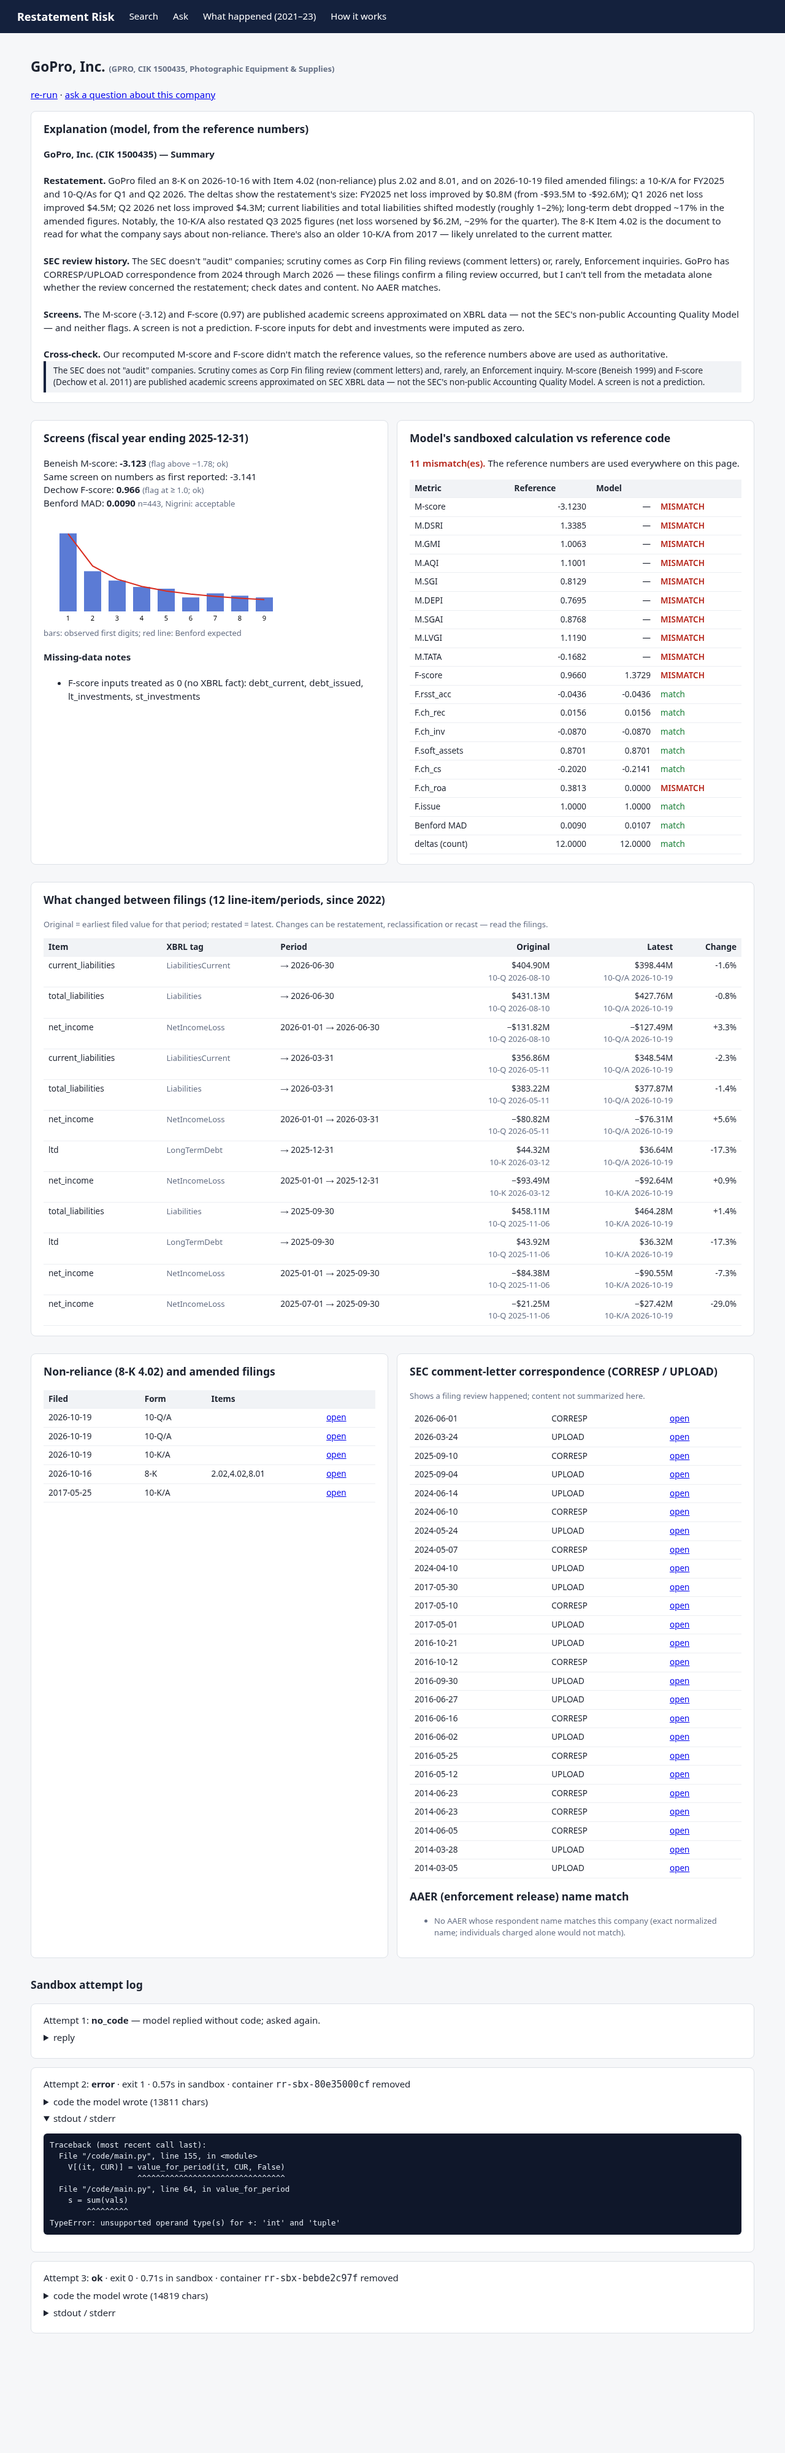
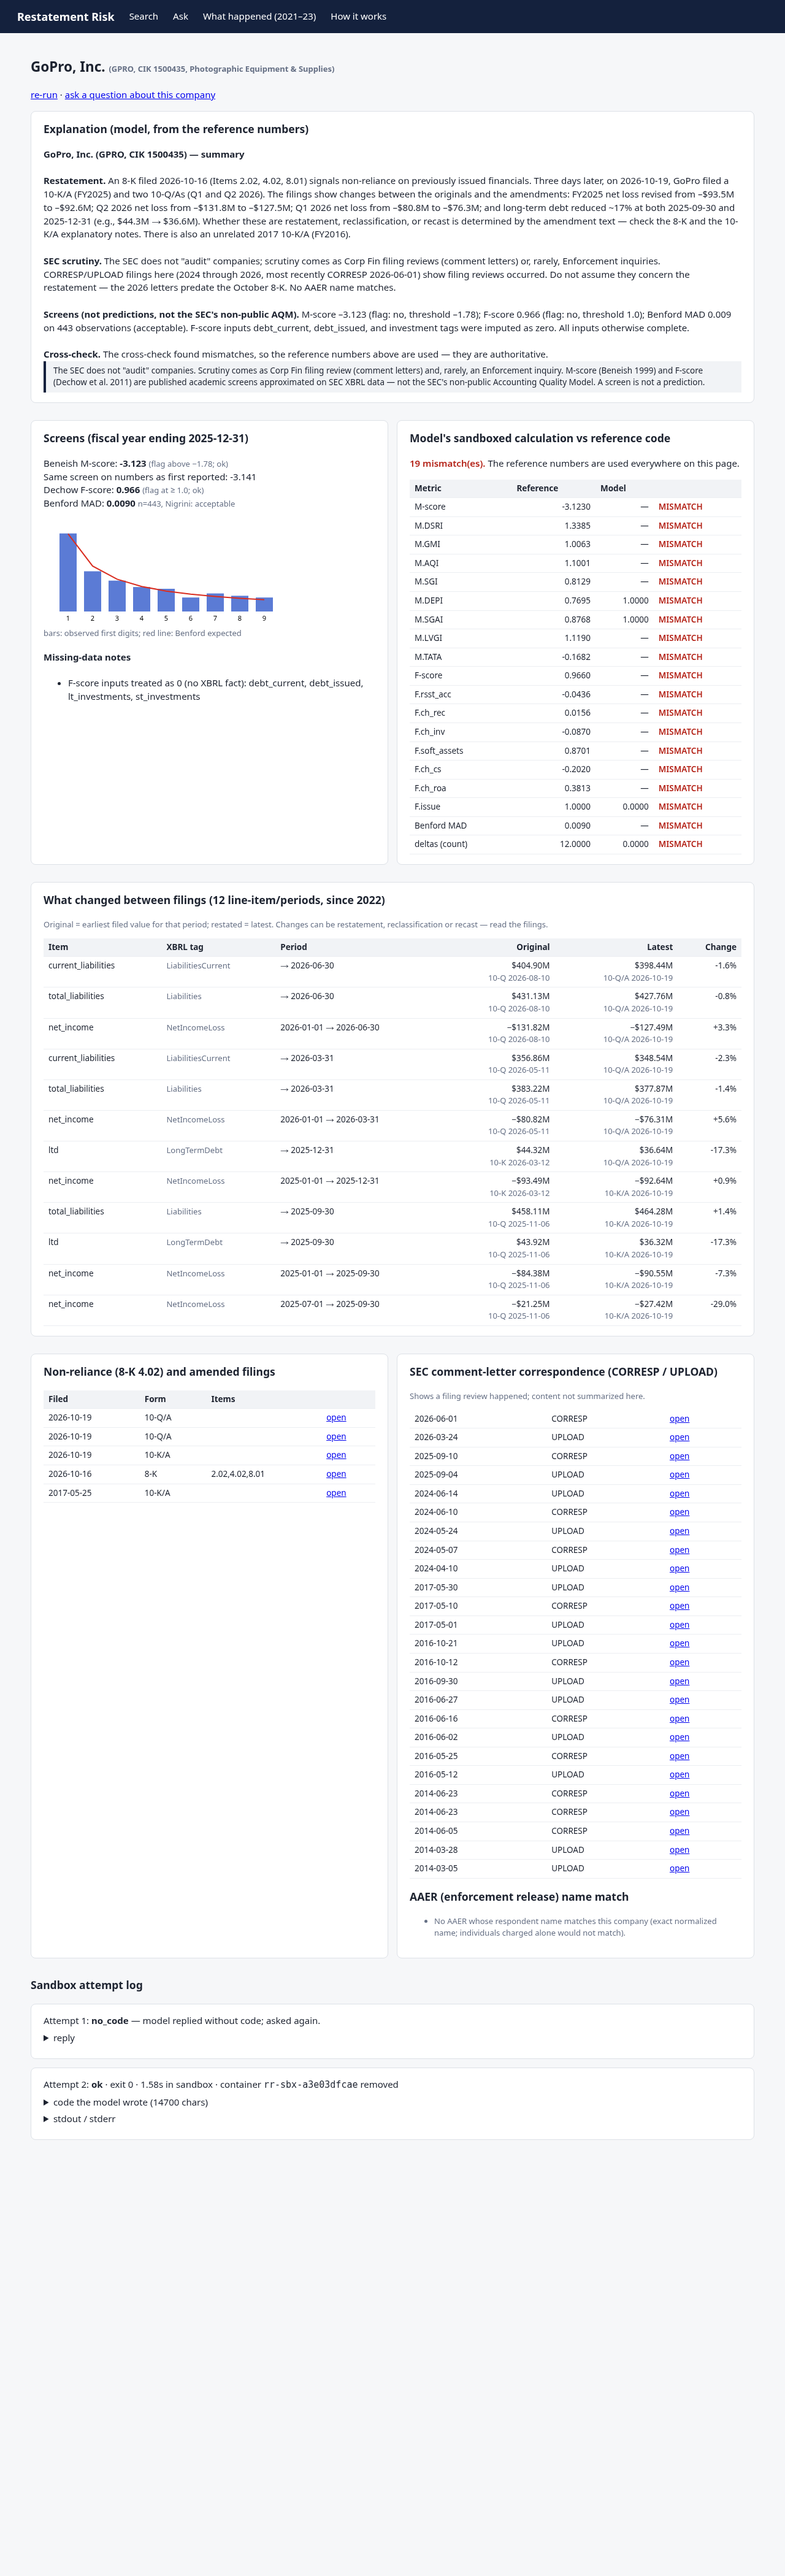
Cross-check: distinguish wrong values from values the model did not report

diff --git a/app/main.py b/app/main.py
@@ -134,7 +134,9 @@ def report_html(o):
     rf = "".join(f"<tr><td>{e(x['filed'])}</td><td>{e(x['form'])}</td><td>{e(x['items'])}</td><td><a href='{e(x['url'])}' target=_blank rel=noopener>open</a></td></tr>" for x in o["restatement_filings"][:30])
     cl = "".join(f"<tr><td>{e(x['filed'])}</td><td>{e(x['form'])}</td><td><a href='{e(x['url'])}' target=_blank rel=noopener>open</a></td></tr>" for x in o["comment_letters"][:30]) or "<tr><td colspan=3 class=muted>None on EDGAR for this company.</td></tr>"
     aa = "".join(f"<li>{e(x['date'])} — {e(x['name'])} — AAER-{e(x['aaer'])} <a href='{e(x['url'])}' target=_blank rel=noopener>release</a></li>" for x in o["aaer_name_matches"]) or "<li class=muted>No AAER whose respondent name matches this company (exact normalized name; individuals charged alone would not match).</li>"
-    xc = "".join(f"<tr><td>{e(x['metric'])}</td><td class=num>{num(x['reference'],4)}</td><td class=num>{num(x['model'],4)}</td><td class={'ok' if x['match'] else 'bad'}>{'match' if x['match'] else 'MISMATCH'}</td></tr>" for x in o["crosscheck"])
+    xc = "".join(f"<tr><td>{e(x['metric'])}</td><td class=num>{num(x['reference'],4)}</td><td class=num>{num(x['model'],4)}</td><td class={'ok' if x['match'] else 'bad'}>{xlabel(x)}</td></tr>" for x in o["crosscheck"])
+    nmiss = sum(1 for x in o["crosscheck"] if not x["match"] and x.get("model") is None)
+    mism_wrong = sum(1 for x in o["crosscheck"] if not x["match"] and x.get("model") is not None)
     mism = len(o.get("crosscheck_mismatches") or [])
     miss = []
     if b.get("status") == "insufficient_data": miss.append(f"M-score not computed — missing: {', '.join(set(b['missing']['current']+b['missing']['prior']))}")
@@ -154,7 +156,7 @@ Benford MAD: <b>{num(bf.get('mad'),4)}</b> <span class=muted>n={e(bf.get('n'))},
 {benford_svg(bf['observed']) if bf.get('observed') else ''}
 <h4>Missing-data notes</h4><ul>{''.join(f'<li>{e(m)}</li>' for m in miss) or '<li class=muted>none</li>'}</ul></div>
 <div class=card><h3 style="margin-top:0">Model's sandboxed calculation vs reference code</h3>
-<p>{'<span class=ok>All checks match.</span>' if not mism else f'<span class=bad>{mism} mismatch(es).</span> The reference numbers are used everywhere on this page.'}</p>
+<p>{'<span class=ok>All checks match.</span>' if not mism else f'<span class=bad>{mism} check(s) failed: {mism_wrong} wrong value(s), {nmiss} not reported by the model.</span> The reference numbers are used everywhere on this page.'}</p>
 <table><tr><th>Metric</th><th>Reference</th><th>Model</th><th></th></tr>{xc}</table></div></div>
 <div class=card><h3 style="margin-top:0">What changed between filings ({o['reference_delta_count']} line-item/periods, since 2022)</h3>
 <p class=muted>Original = earliest filed value for that period; restated = latest. Changes can be restatement, reclassification or recast — read the filings.</p>
@@ -163,6 +165,9 @@ Benford MAD: <b>{num(bf.get('mad'),4)}</b> <span class=muted>n={e(bf.get('n'))},
 <div class=card><h3 style="margin-top:0">SEC comment-letter correspondence (CORRESP / UPLOAD)</h3><p class=muted>Shows a filing review happened; content not summarized here.</p><table>{cl}</table>
 <h3>AAER (enforcement release) name match</h3><ul>{aa}</ul></div></div>
 <h3>Sandbox attempt log</h3>{attempts_html(o['attempts'])}"""
+def xlabel(x):
+    if x["match"]: return "match"
+    return "not reported by model" if x.get("model") is None else "MISMATCH (wrong value)"
 def fixes_html(o):
     f = o.get("name_fixes") or []
     return f"<div class=alert>Post-check corrected a wrong company name in the model's text: {e(', '.join(f))} → {e(o['name'])}.</div>" if f else ""
